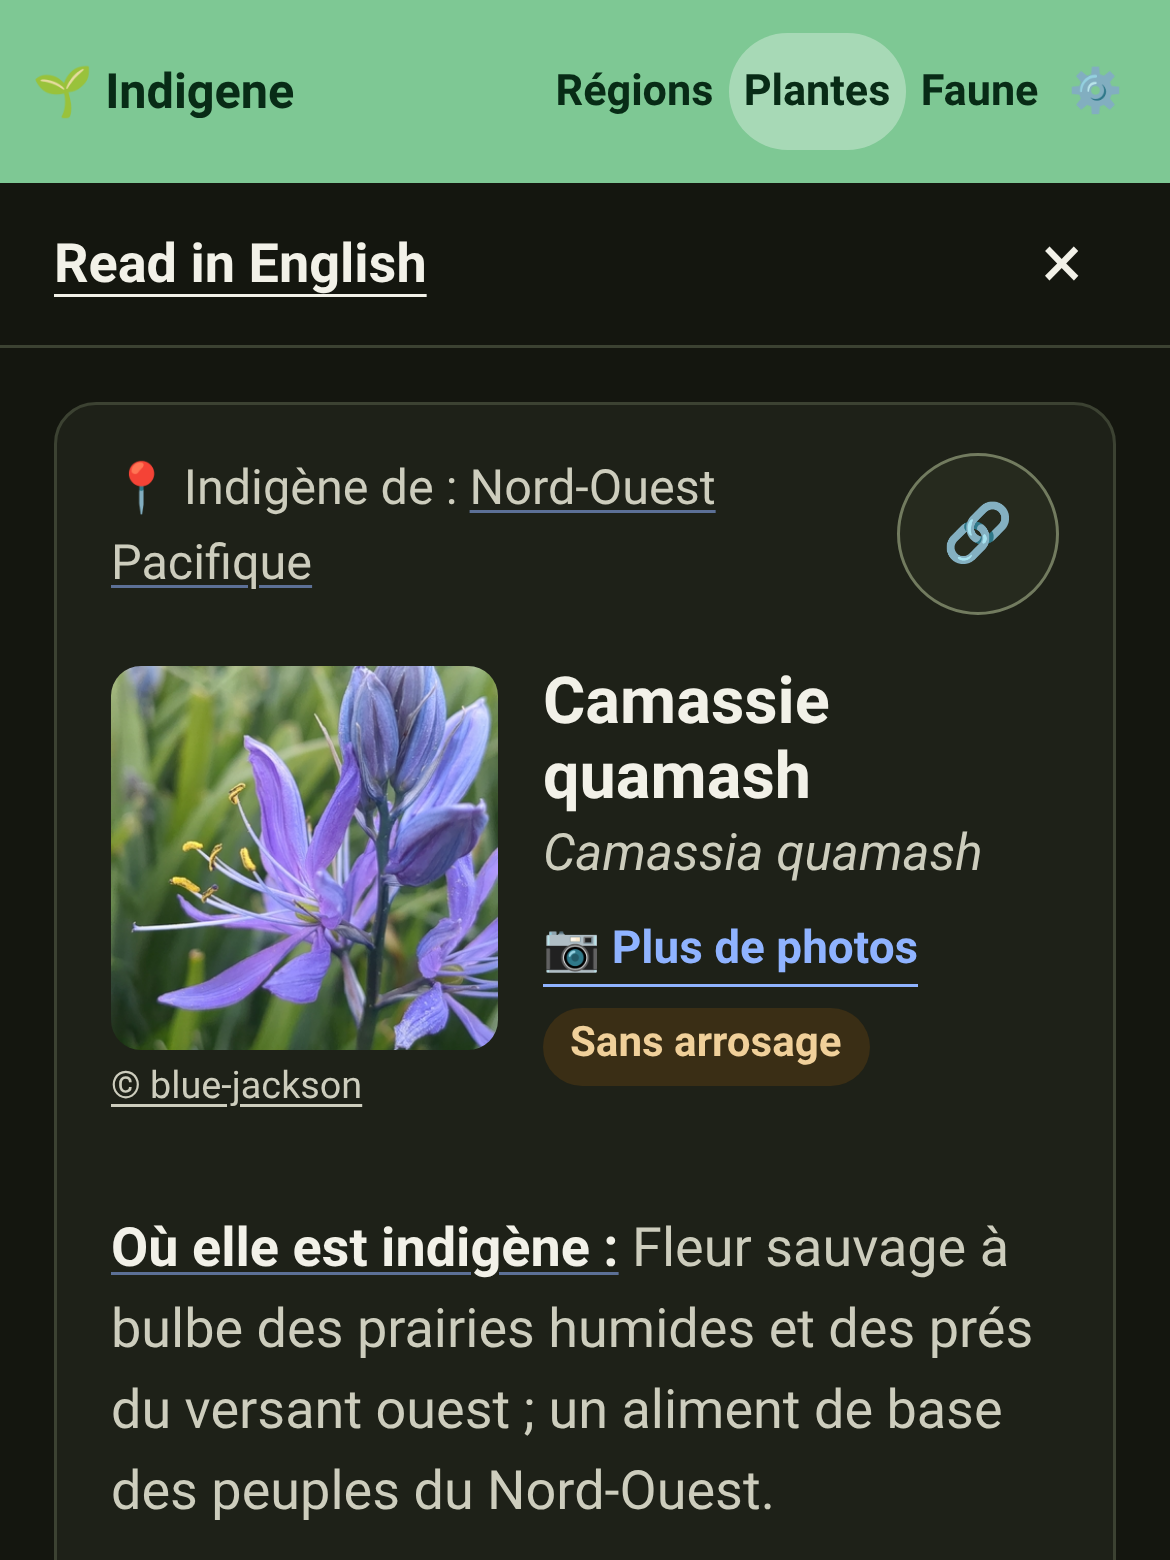
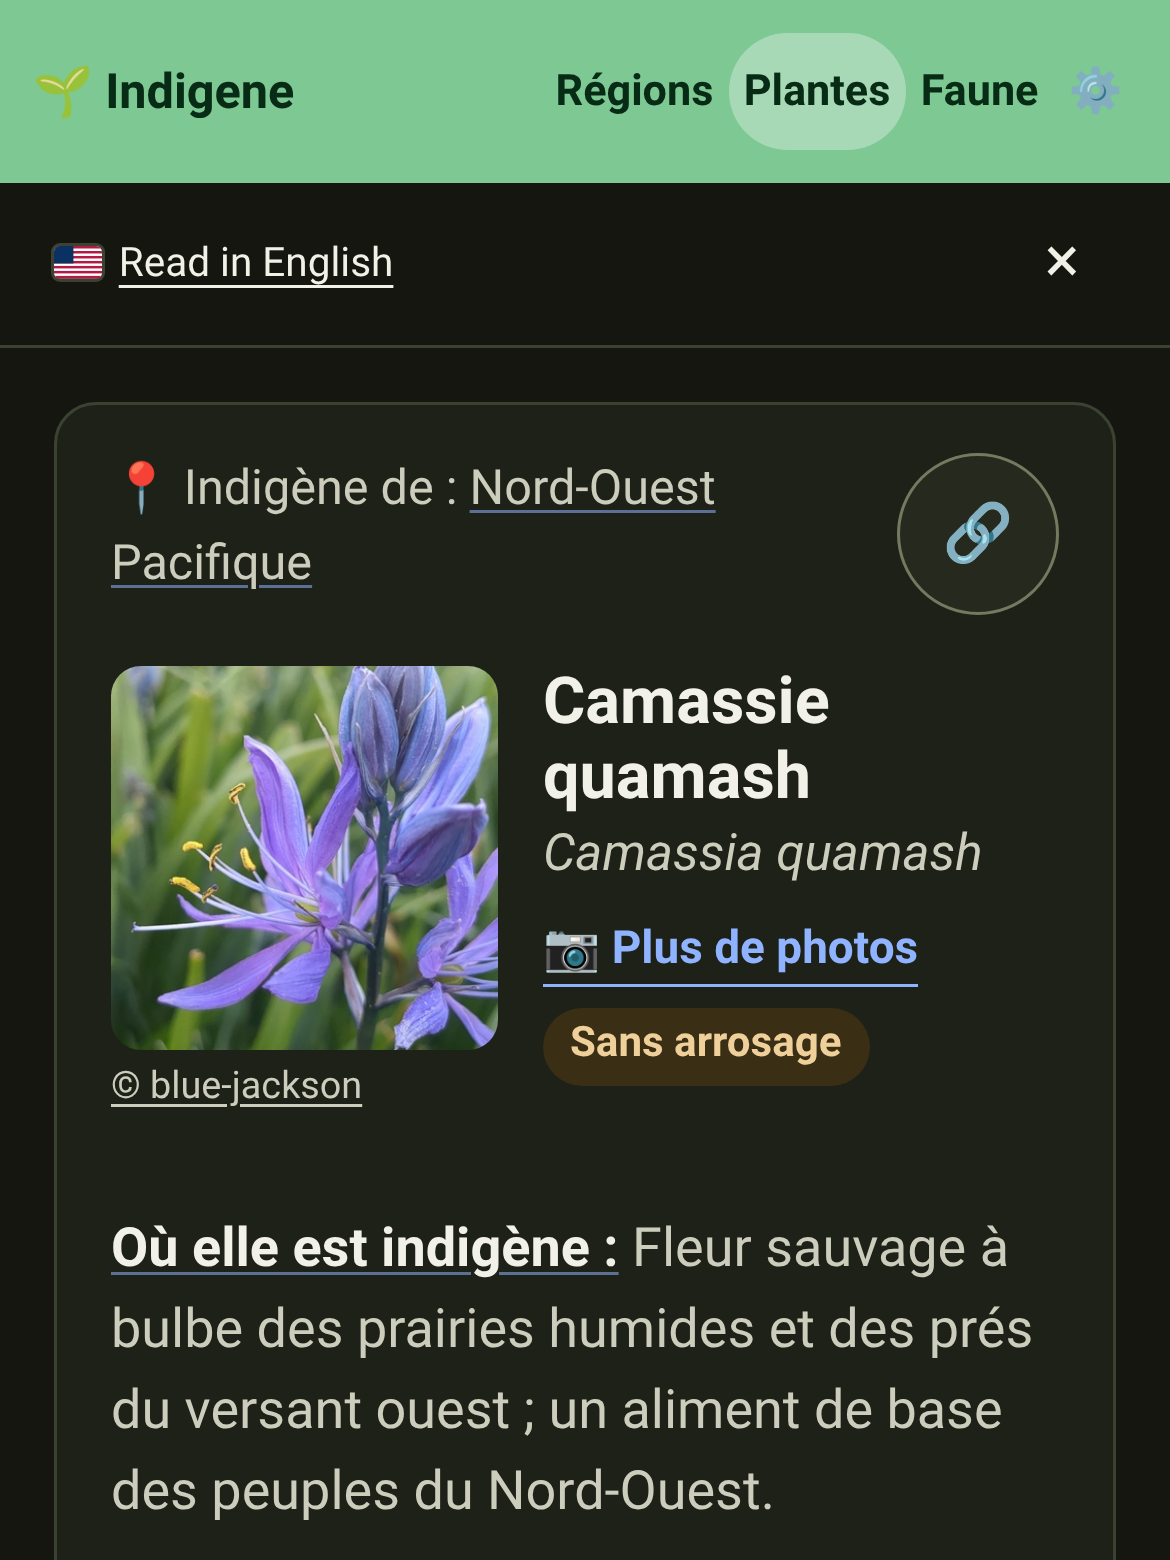
Language offer: a flag for each language, and smaller type
Read in English gets the US flag, as Lire en français has France's: the
flag of the locale each language is. The line drops to 0.75rem at
normal weight, so it reads as a note under the header, not above it.

Claude-Session: https://claude.ai/code/session_01DCUKWNYsVkTJ55aEkM3EWj

Changed region(s): [[0.0308, 0.1538, 0.3692, 0.1846], [0.8923, 0.1538, 0.9231, 0.1846]]

diff --git a/app/src/styles.css b/app/src/styles.css
@@ -879,6 +879,8 @@ p.more-link a {
   margin: 0 auto;
   padding: 0 0.5rem 0 1rem;
   border-bottom: 1px solid var(--line);
+  /* A side note, not a heading: smaller than the title and the nav. */
+  font-size: 0.75rem;
 }
 .lang-offer-take,
 .lang-offer-close {
@@ -891,13 +893,13 @@ p.more-link a {
 }
 .lang-offer-take {
   padding: 0;
-  font-weight: 600;
+  font-weight: 400;
   text-decoration: underline;
   text-underline-offset: 0.2em;
 }
 .lang-offer-close {
   min-width: var(--tap);
-  font-size: 1.4rem;
+  font-size: 1.2rem;
   line-height: 1;
 }
 

diff --git a/app/src/components/lang-offer.ts b/app/src/components/lang-offer.ts
@@ -47,7 +47,8 @@ export function mountLangOffer(main: HTMLElement): void {
 
   const offer: Lang = fromLink ? home : "fr";
   const words = WORDS[offer];
-  const flag = offer === "fr" ? flagRow(["FR"]) : null;
+  // The flag of the locale each language is (`LOCALE`): US English, France's French.
+  const flag = flagRow([LOCALE[offer].split("-")[1]]);
   flag?.setAttribute("aria-hidden", "true");
   flag?.removeAttribute("role");
 
